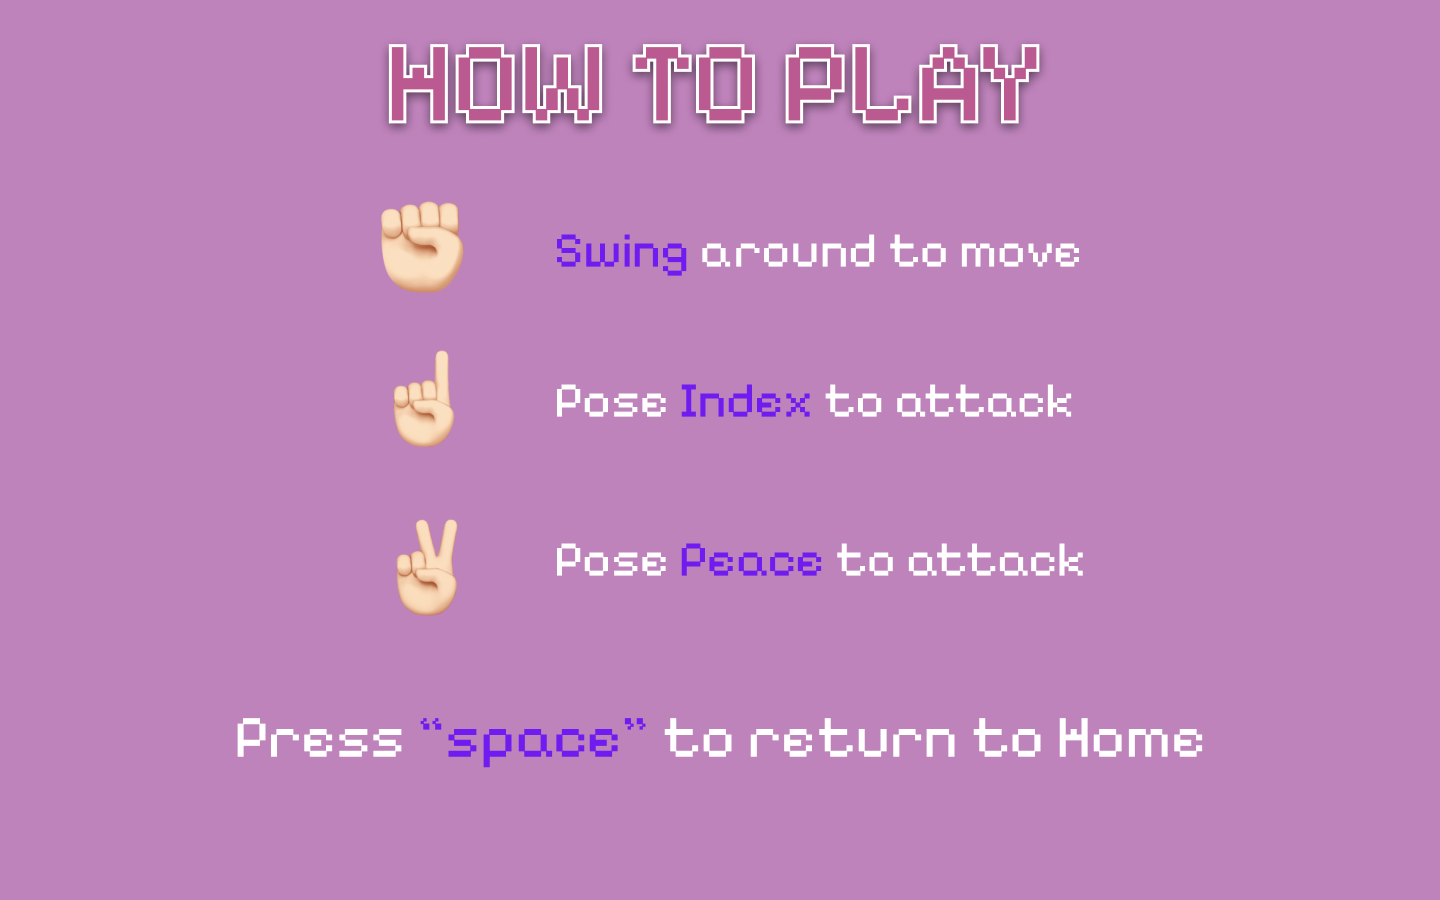
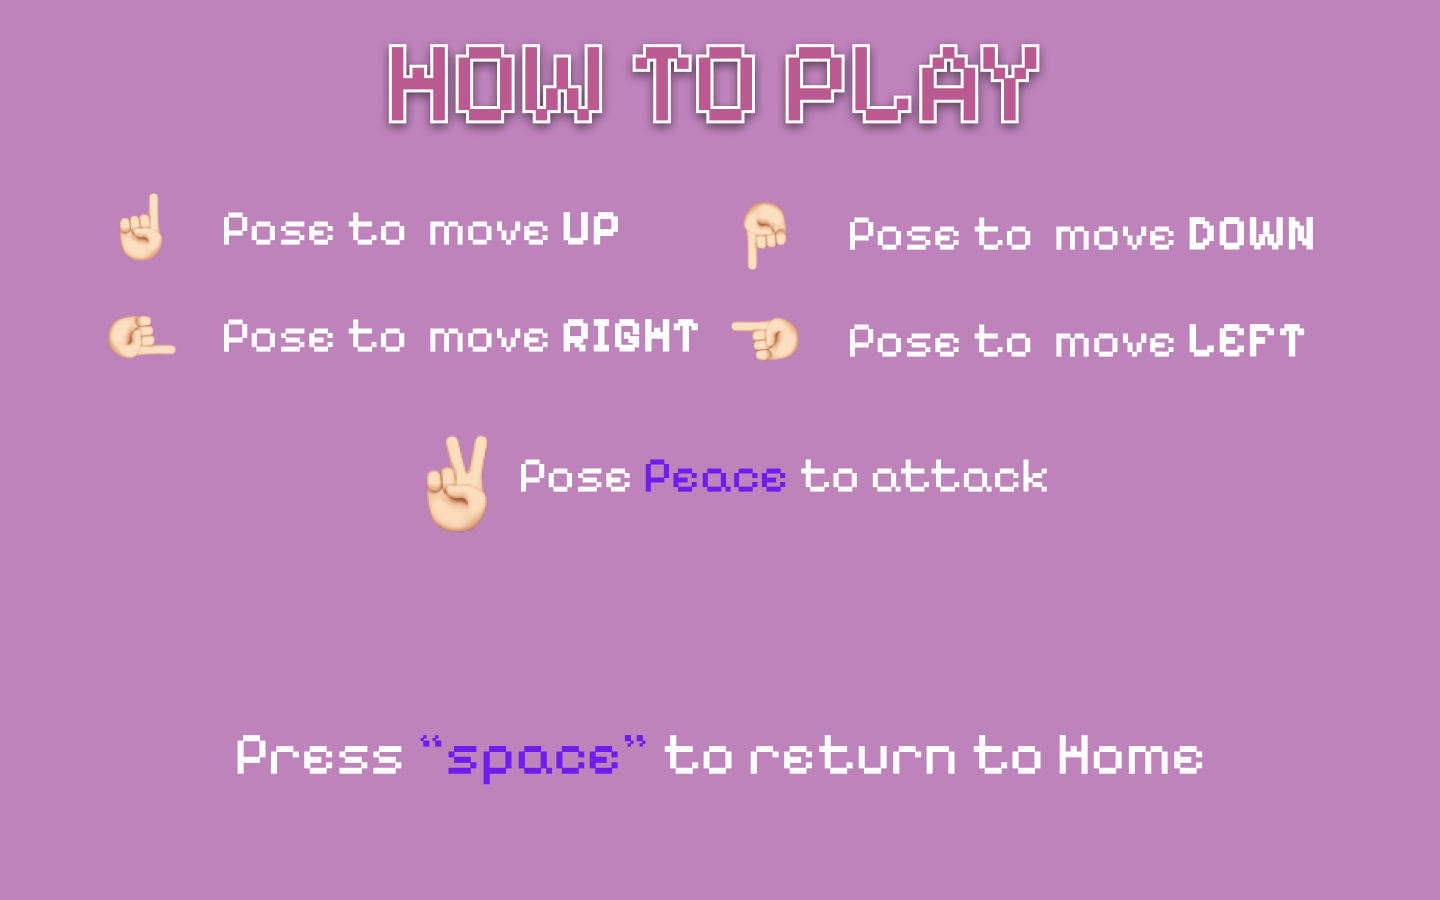
about change

diff --git a/main.py b/main.py
@@ -12,6 +12,7 @@ gesture_state = {
     "hand_x":    0.5,
     "hand_y":    0.5,
     "active":    False,
+    "frame" :    None,
 }
 
 DEBOUNCE_FRAMES = 4
@@ -195,6 +196,9 @@ def _gesture_loop(stop_event):
                 mp_drawing_styles.get_default_hand_landmarks_style(),
                 mp_drawing_styles.get_default_hand_connections_style(),
             )
+            
+            frame_rgb_display = cv2.cvtColor(frame, cv2.COLOR_BGR2RGB)
+            gesture_state["frame"] = frame_rgb_display
 
             landmarks = hand_landmarks.landmark
             wrist     = landmarks[0]

diff --git a/Game.py b/Game.py
@@ -248,6 +248,15 @@ while running:
     prev_action = action
 
     home_screen.draw(screen, player)  
+    
+    cam_frame =main.gesture_state["frame"]
+    if cam_frame is not None:
+        cam_surface = pygame.image.frombuffer(cam_frame.tobytes(), (cam_frame.shape[1], cam_frame.shape[0]), "RGB")
+    
+        cam_surface = pygame.transform.scale(cam_surface, (320, 240))
+        pygame.draw.rect(cam_surface, (255, 255, 255), cam_surface.get_rect(), 3)
+        screen.blit(cam_surface, (20, SCREEN_HEIGHT - 240 - 20))
+        
     pygame.display.flip()
     clock.tick(60) 
     
